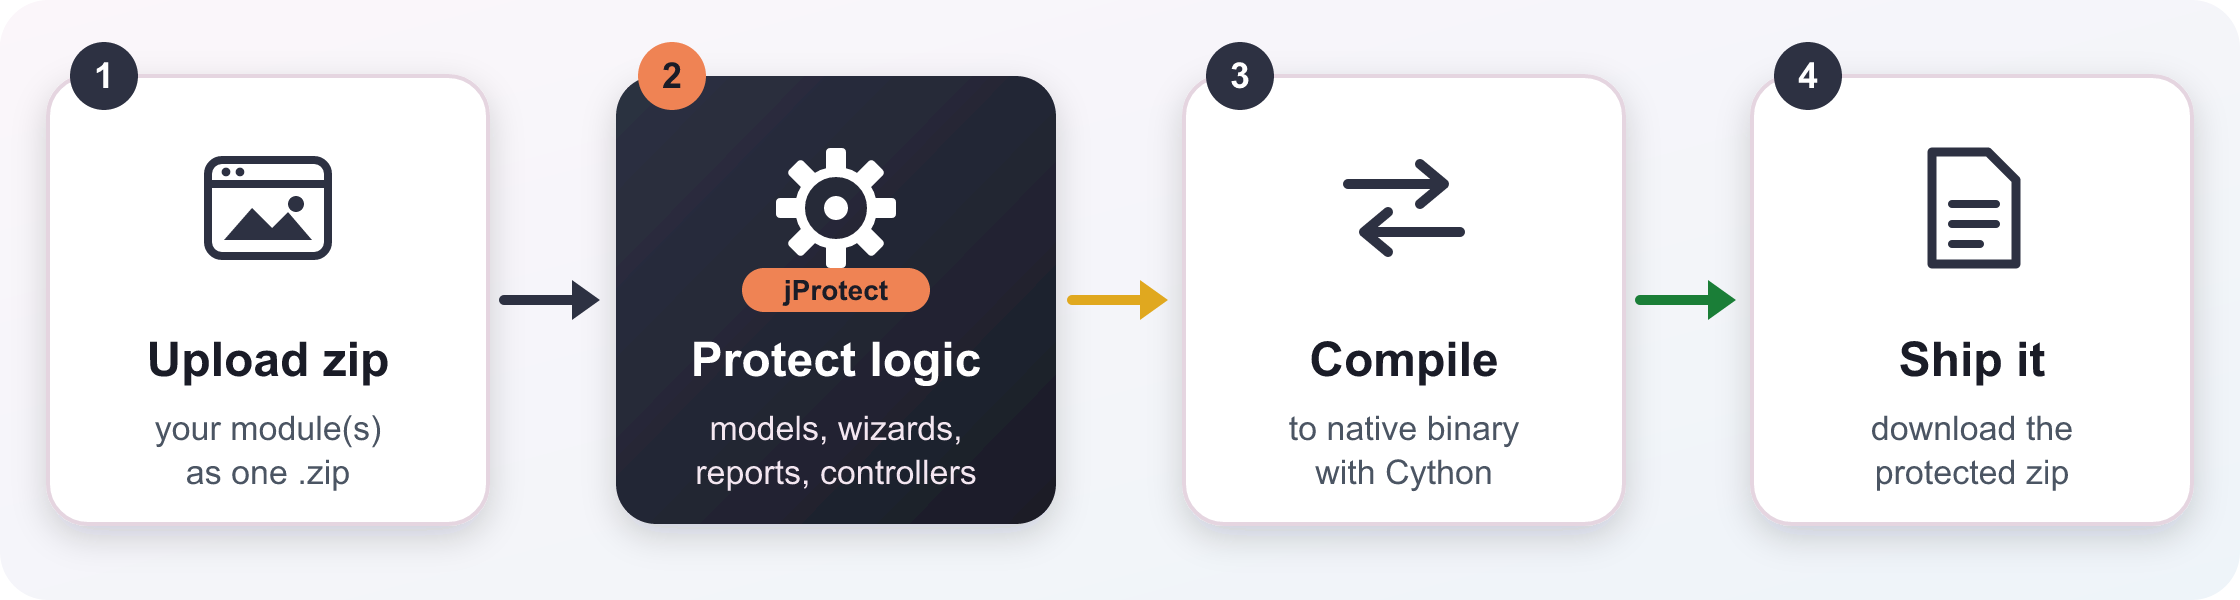
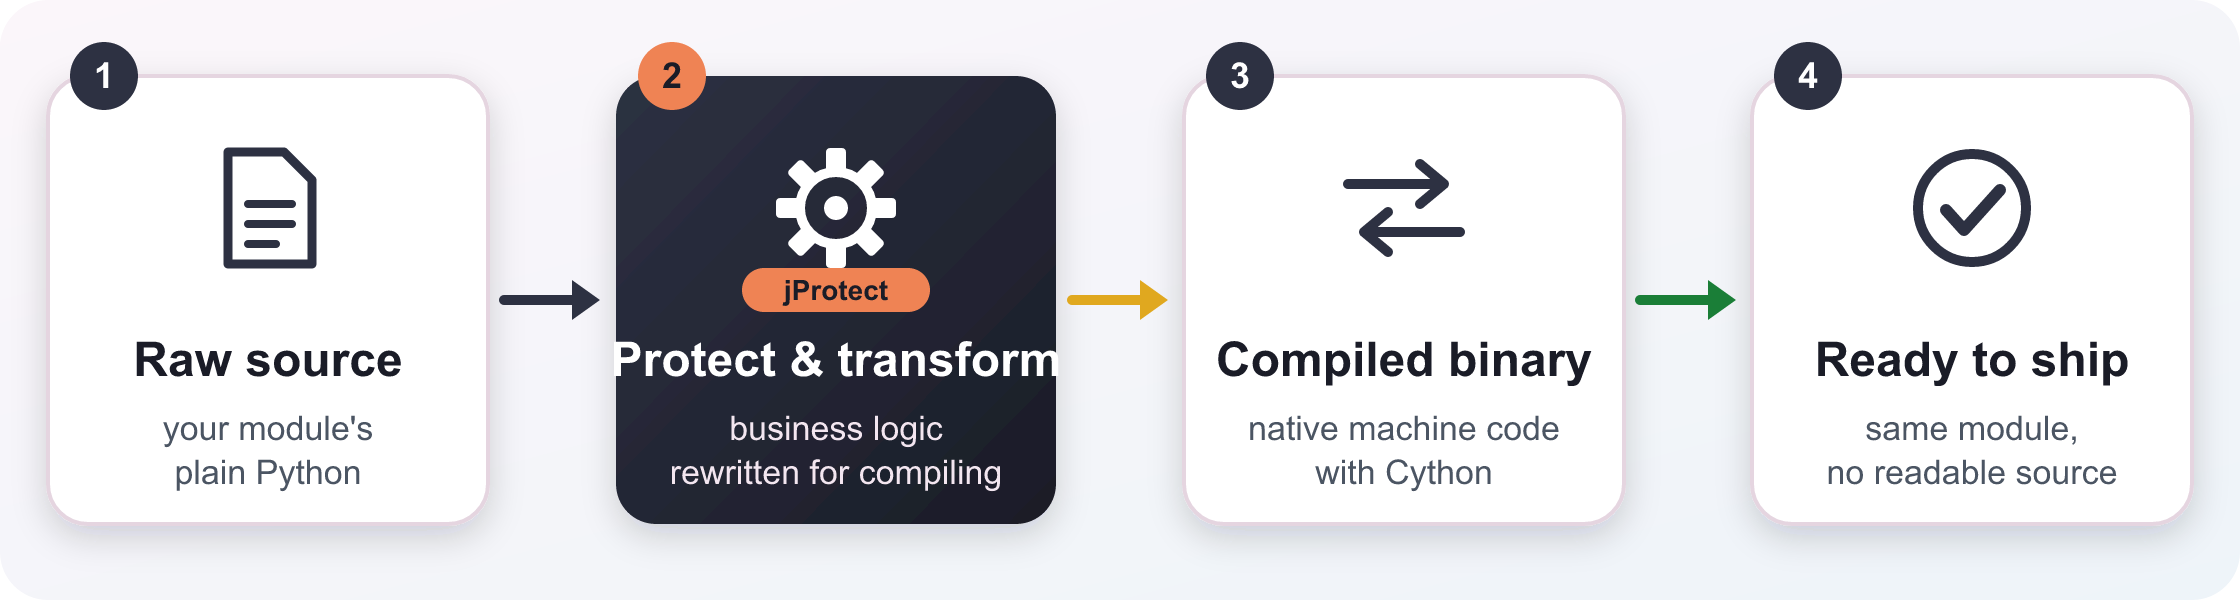
[IMP] dwo_source_code_protector: listing copy focuses on protection flow, not background jobs
- Store description/banner/flow now lead with the real pain point (shipping
  readable business logic) and the protect -> compile -> ship flow, instead
  of emphasizing background processing as the headline
- Test file: drop PEP 604/585 type hints from a helper function signature,
  which fail to import on Python < 3.9/3.10 (needed for 12.0-16.0 branches
  sharing this test file)

Claude-Session: https://claude.ai/code/session_01MswwjzxQJzBYDNJzdTwzsA

diff --git a/dwo_source_code_protector/static/description/index.html b/dwo_source_code_protector/static/description/index.html
@@ -4,13 +4,13 @@
     <div class="text-center pt-5 pb-3 border-bottom">
         <h1 class="font-weight-bold mt-0 mb-2" style="font-size: 30px; color: #1A1C27;">Source Code Protector for Odoo</h1>
         <p class="font-weight-bold mb-2" style="font-size: 18px; color: #1A1C27;">Ship your Odoo module without shipping its source.</p>
-        <p class="mb-4" style="font-size: 15px;">Upload a module .zip and get back the same module with its business logic compiled to native binaries &mdash; no readable Python left in the methods you protect.</p>
+        <p class="mb-4" style="font-size: 15px;">Every module you sell or deploy normally hands over fully readable Python &mdash; anyone who installs it can open every file, copy your logic, or rewrite around it. Source Code Protector compiles your business logic to native machine code first, so what you ship still works exactly the same, but can no longer be read as source.</p>
     </div>
 
     <div class="my-5">
-        <p class="mb-4" style="font-size: 17px;">Selling or deploying an Odoo module usually means handing over readable Python source along with it &mdash; anyone who installs it can open every file. <strong>Source Code Protector</strong> extracts your module's business logic (models, wizards, reports, controllers) and compiles it to native <code>.so</code>/<code>.pyd</code> binaries with Cython, so the methods you protect still run exactly as before, but can no longer be read, copied or modified as plain Python. The module you get back installs and behaves like any other Odoo module &mdash; there is nothing special for your customers to configure.</p>
+        <p class="mb-4" style="font-size: 17px;">The moment you hand a customer or reseller an Odoo module, you are handing them its source &mdash; the pricing rules, algorithms and integrations that took real work to build, in plain readable Python they can open, copy, or quietly rewrite around. <strong>Source Code Protector</strong> takes your module's raw source, extracts the business logic (models, wizards, reports, controllers), and compiles it to native <code>.so</code>/<code>.pyd</code> binaries with Cython. The methods you protect run exactly as before &mdash; often faster, since compiled native code typically outperforms interpreted Python &mdash; but can no longer be read, copied or modified as source. What you get back installs and behaves like any other Odoo module, nothing special for your customers to configure.</p>
         <div class="text-center mb-4">
-            <img src="flow.png" alt="How it works: upload a zip, business logic is protected and compiled to native binary, then the protected zip is ready to ship" class="img-fluid rounded shadow-sm"/>
+            <img src="flow.png" alt="How it works: raw source code is protected and transformed, then compiled to native binary, then ready to ship with no readable source left" class="img-fluid rounded shadow-sm"/>
         </div>
     </div>
 
@@ -20,7 +20,7 @@
             <div class="card h-100" style="border-top: 4px solid #2D3142;">
                 <div class="card-body">
                     <h4 class="font-weight-bold mt-0 mb-3" style="font-size: 18px; color: #1A1C27;">Protect What You Sell</h4>
-                    <p class="mb-0" style="font-size: 14px;">Distribute a compiled module instead of plain-text Python, so customers and resellers cannot read or copy your business logic.</p>
+                    <p class="mb-0" style="font-size: 14px;">Distribute a compiled module instead of plain-text Python, so customers and resellers cannot read, copy or rewrite around your business logic.</p>
                 </div>
             </div>
         </div>
@@ -28,15 +28,15 @@
             <div class="card h-100" style="border-top: 4px solid #2D3142;">
                 <div class="card-body">
                     <h4 class="font-weight-bold mt-0 mb-3" style="font-size: 18px; color: #1A1C27;">Keep Your Edge</h4>
-                    <p class="mb-0" style="font-size: 14px;">The pricing rules, algorithms and integrations that make your module valuable stay yours &mdash; not copy-pasted into a competitor's module.</p>
+                    <p class="mb-0" style="font-size: 14px;">The pricing rules, algorithms and integrations that make your module valuable, and the real work behind them, stay yours &mdash; not copy-pasted into a competitor's module.</p>
                 </div>
             </div>
         </div>
         <div class="col-md-4 mb-4">
             <div class="card h-100" style="border-top: 4px solid #2D3142;">
                 <div class="card-body">
-                    <h4 class="font-weight-bold mt-0 mb-3" style="font-size: 18px; color: #1A1C27;">No Extra Tooling</h4>
-                    <p class="mb-0" style="font-size: 14px;">No external build server, CI pipeline or separate compiler setup to maintain &mdash; the Odoo server you already run does the protecting and compiling.</p>
+                    <h4 class="font-weight-bold mt-0 mb-3" style="font-size: 18px; color: #1A1C27;">Often Faster Too</h4>
+                    <p class="mb-0" style="font-size: 14px;">Protected methods are compiled to native machine code with Cython, which typically runs faster than interpreted Python for the same logic.</p>
                 </div>
             </div>
         </div>
@@ -102,8 +102,8 @@
         <div class="col-md-4 mb-4">
             <div class="card h-100" style="border-top: 4px solid #4F5D75;">
                 <div class="card-body">
-                    <h4 class="font-weight-bold mt-0 mb-3" style="font-size: 18px; color: #1A1C27;">Large Zips, No Timeout</h4>
-                    <p class="mb-0" style="font-size: 14px;">Processing happens one module at a time in the background, so a zip with many modules or heavy Cython compilation never times out a single request.</p>
+                    <h4 class="font-weight-bold mt-0 mb-3" style="font-size: 18px; color: #1A1C27;">Handles Multi-Module Zips</h4>
+                    <p class="mb-0" style="font-size: 14px;">Upload a zip with several Odoo modules at once; each one is protected and compiled independently, with its own result.</p>
                 </div>
             </div>
         </div>
@@ -202,8 +202,8 @@ from . import wizards</pre>
         <p class="mb-0" style="font-size: 14px;">That entry is Skipped with a clear reason: there is no reliable module name to compile against in that shape. Re-zip with the module's technical folder name at the top, e.g. <code>my_module.zip</code> containing <code>my_module/__manifest__.py</code>.</p>
     </div></div>
     <div class="card mb-3"><div class="card-body">
-        <h4 class="font-weight-bold mt-0 mb-2" style="font-size: 16px; color: #1A1C27;">Does it slow down a large zip or freeze the browser?</h4>
-        <p class="mb-0" style="font-size: 14px;">No. Upload closes the dialog right away; protection and compilation run in the background, one module at a time, and you come back later to download the result.</p>
+        <h4 class="font-weight-bold mt-0 mb-2" style="font-size: 16px; color: #1A1C27;">Can I see past protection jobs?</h4>
+        <p class="mb-0" style="font-size: 14px;">Yes &mdash; every upload becomes a job record in Settings &rarr; Source Code Protector, with its status, per-module result, and the protected zip to download again.</p>
     </div></div>
     <div class="card mb-3"><div class="card-body">
         <h4 class="font-weight-bold mt-0 mb-2" style="font-size: 16px; color: #1A1C27;">How long are my uploaded and result files kept?</h4>
@@ -221,7 +221,7 @@ from . import wizards</pre>
                 <h4 class="font-weight-bold mt-0 mb-1" style="font-size: 18px; color: #2D3142;">2.0.0</h4>
                 <p class="text-muted mb-0" style="font-size: 13px;">2026-11-06</p>
             </div>
-            <div class="col-md-9"><p class="mb-0" style="font-size: 14px;">Protection flow unchanged for the user, now processed in the background so large zips never time out; Settings screen redesigned with a short description, direct download from the job list, and recommended module structure notes.</p></div>
+            <div class="col-md-9"><p class="mb-0" style="font-size: 14px;">Settings screen redesigned with a short description, job history with direct download, and recommended module structure notes.</p></div>
         </div>
     </div></div>
 

diff --git a/dwo_source_code_protector/tests/test_protect_wizard.py b/dwo_source_code_protector/tests/test_protect_wizard.py
@@ -15,7 +15,7 @@ from odoo import fields
 from odoo.tests.common import TransactionCase, tagged
 
 
-def _make_zip(modules: list[dict], password: bytes | None = None) -> bytes:
+def _make_zip(modules, password=None):
     """
     Build an in-memory zip.
 
